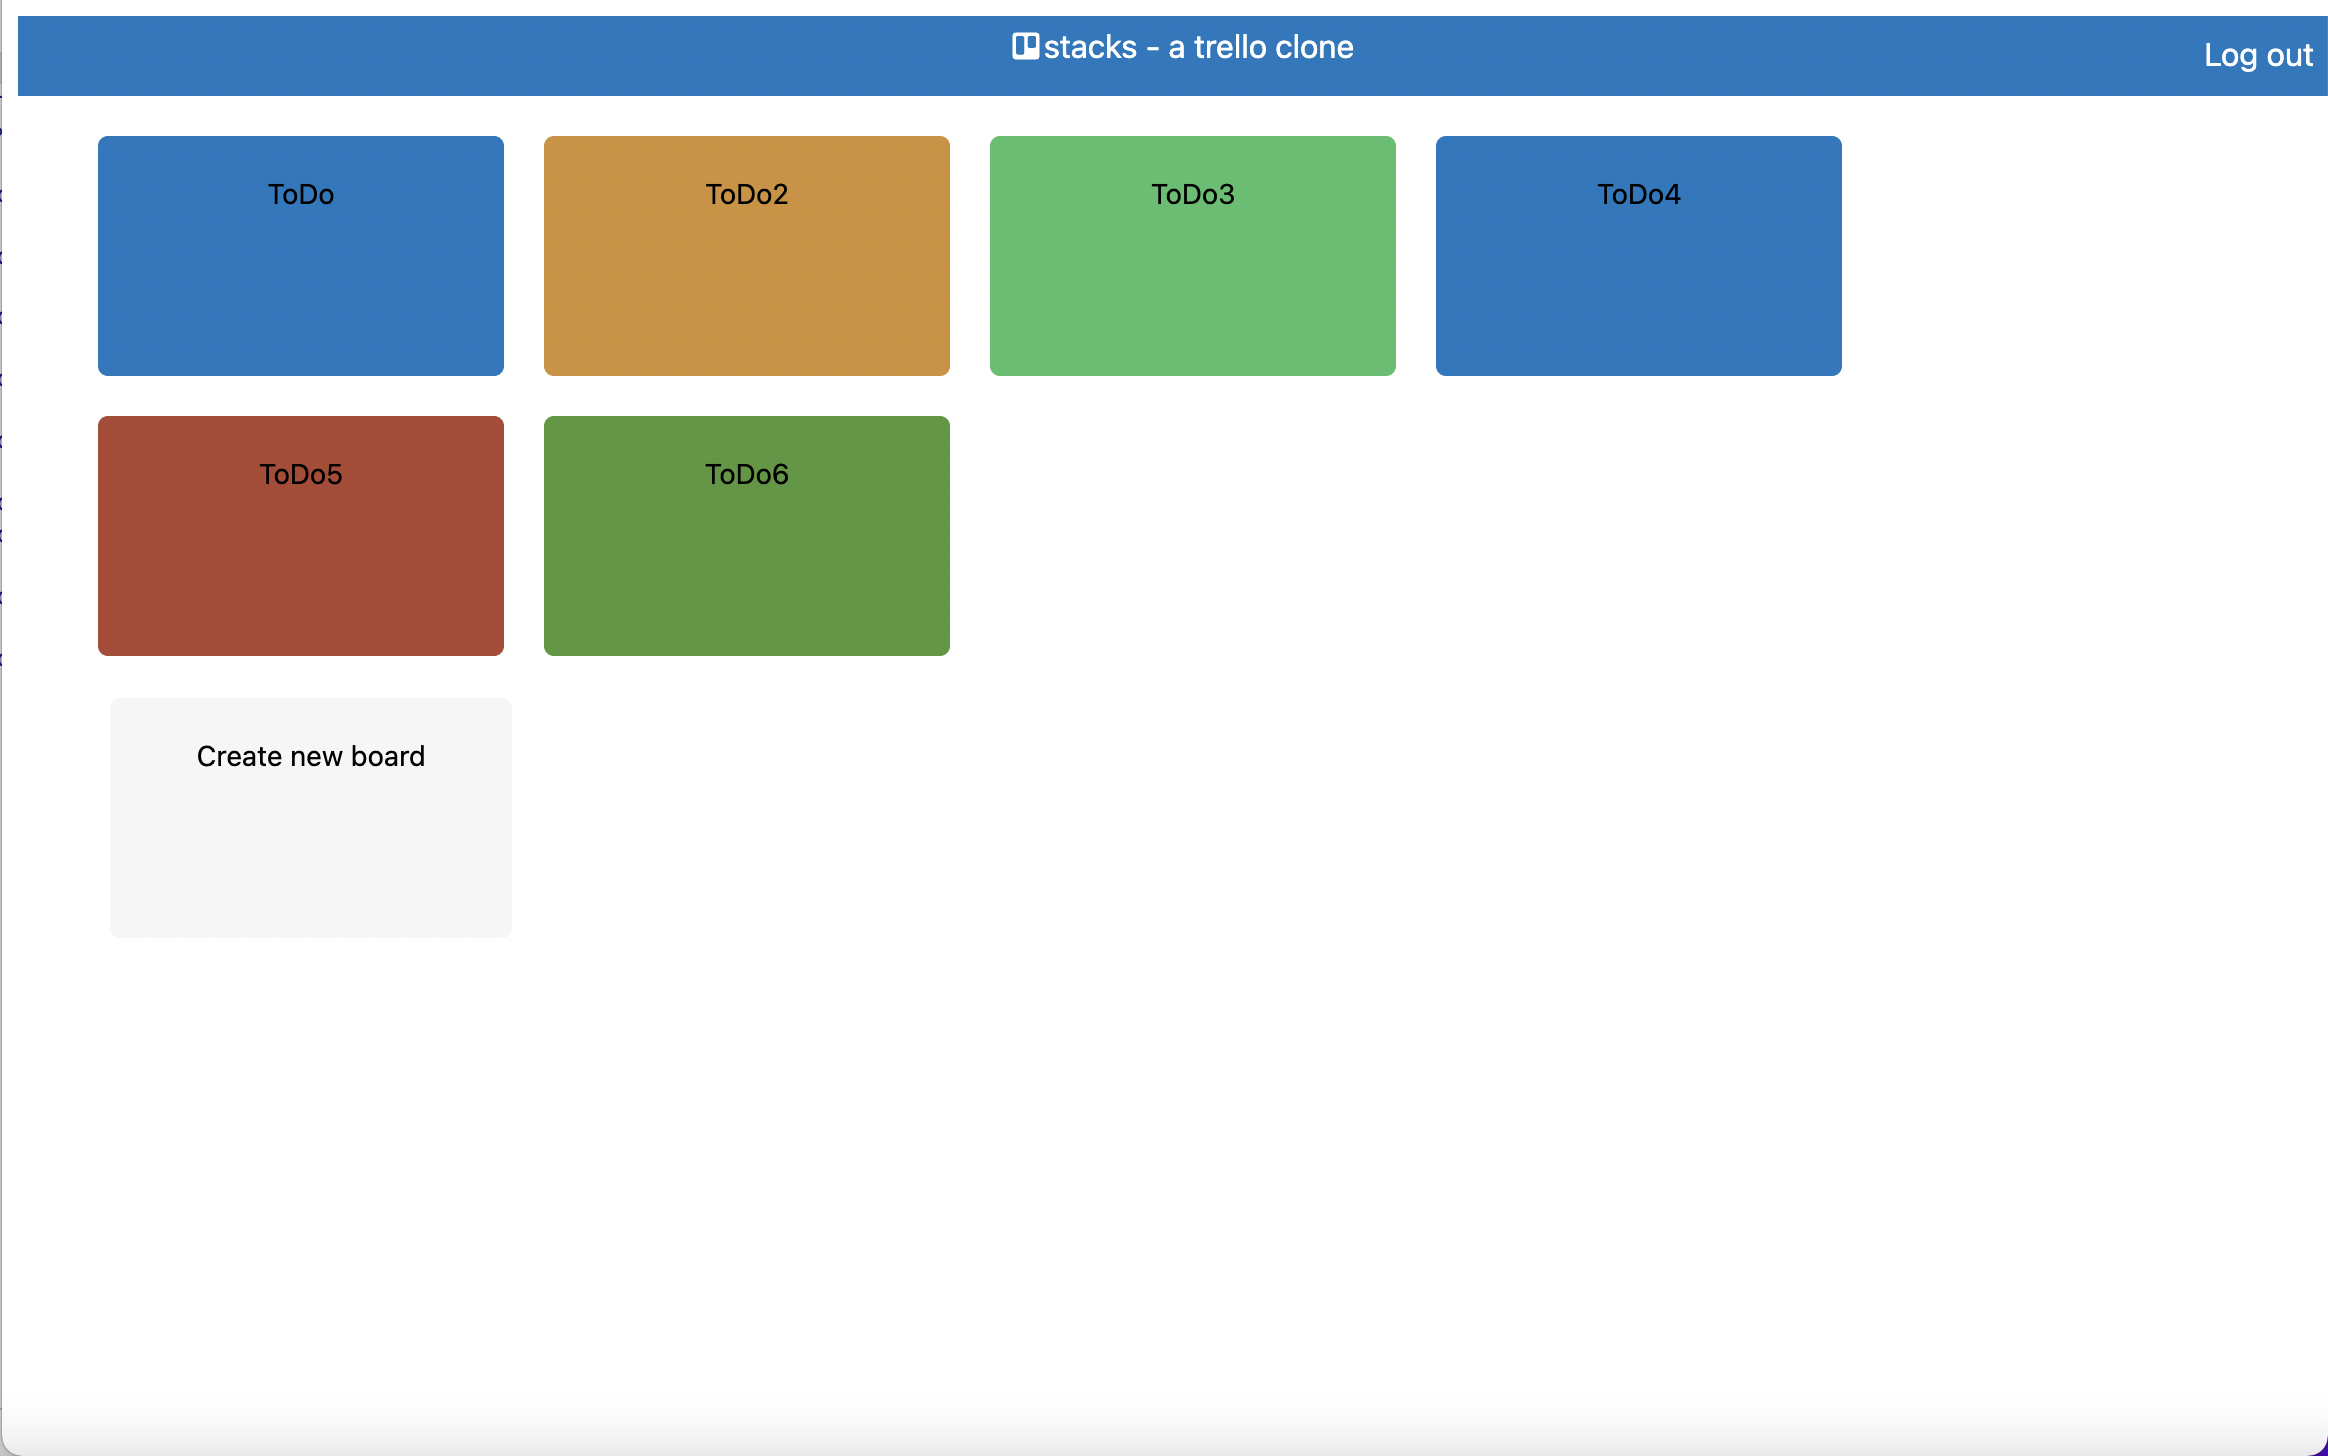
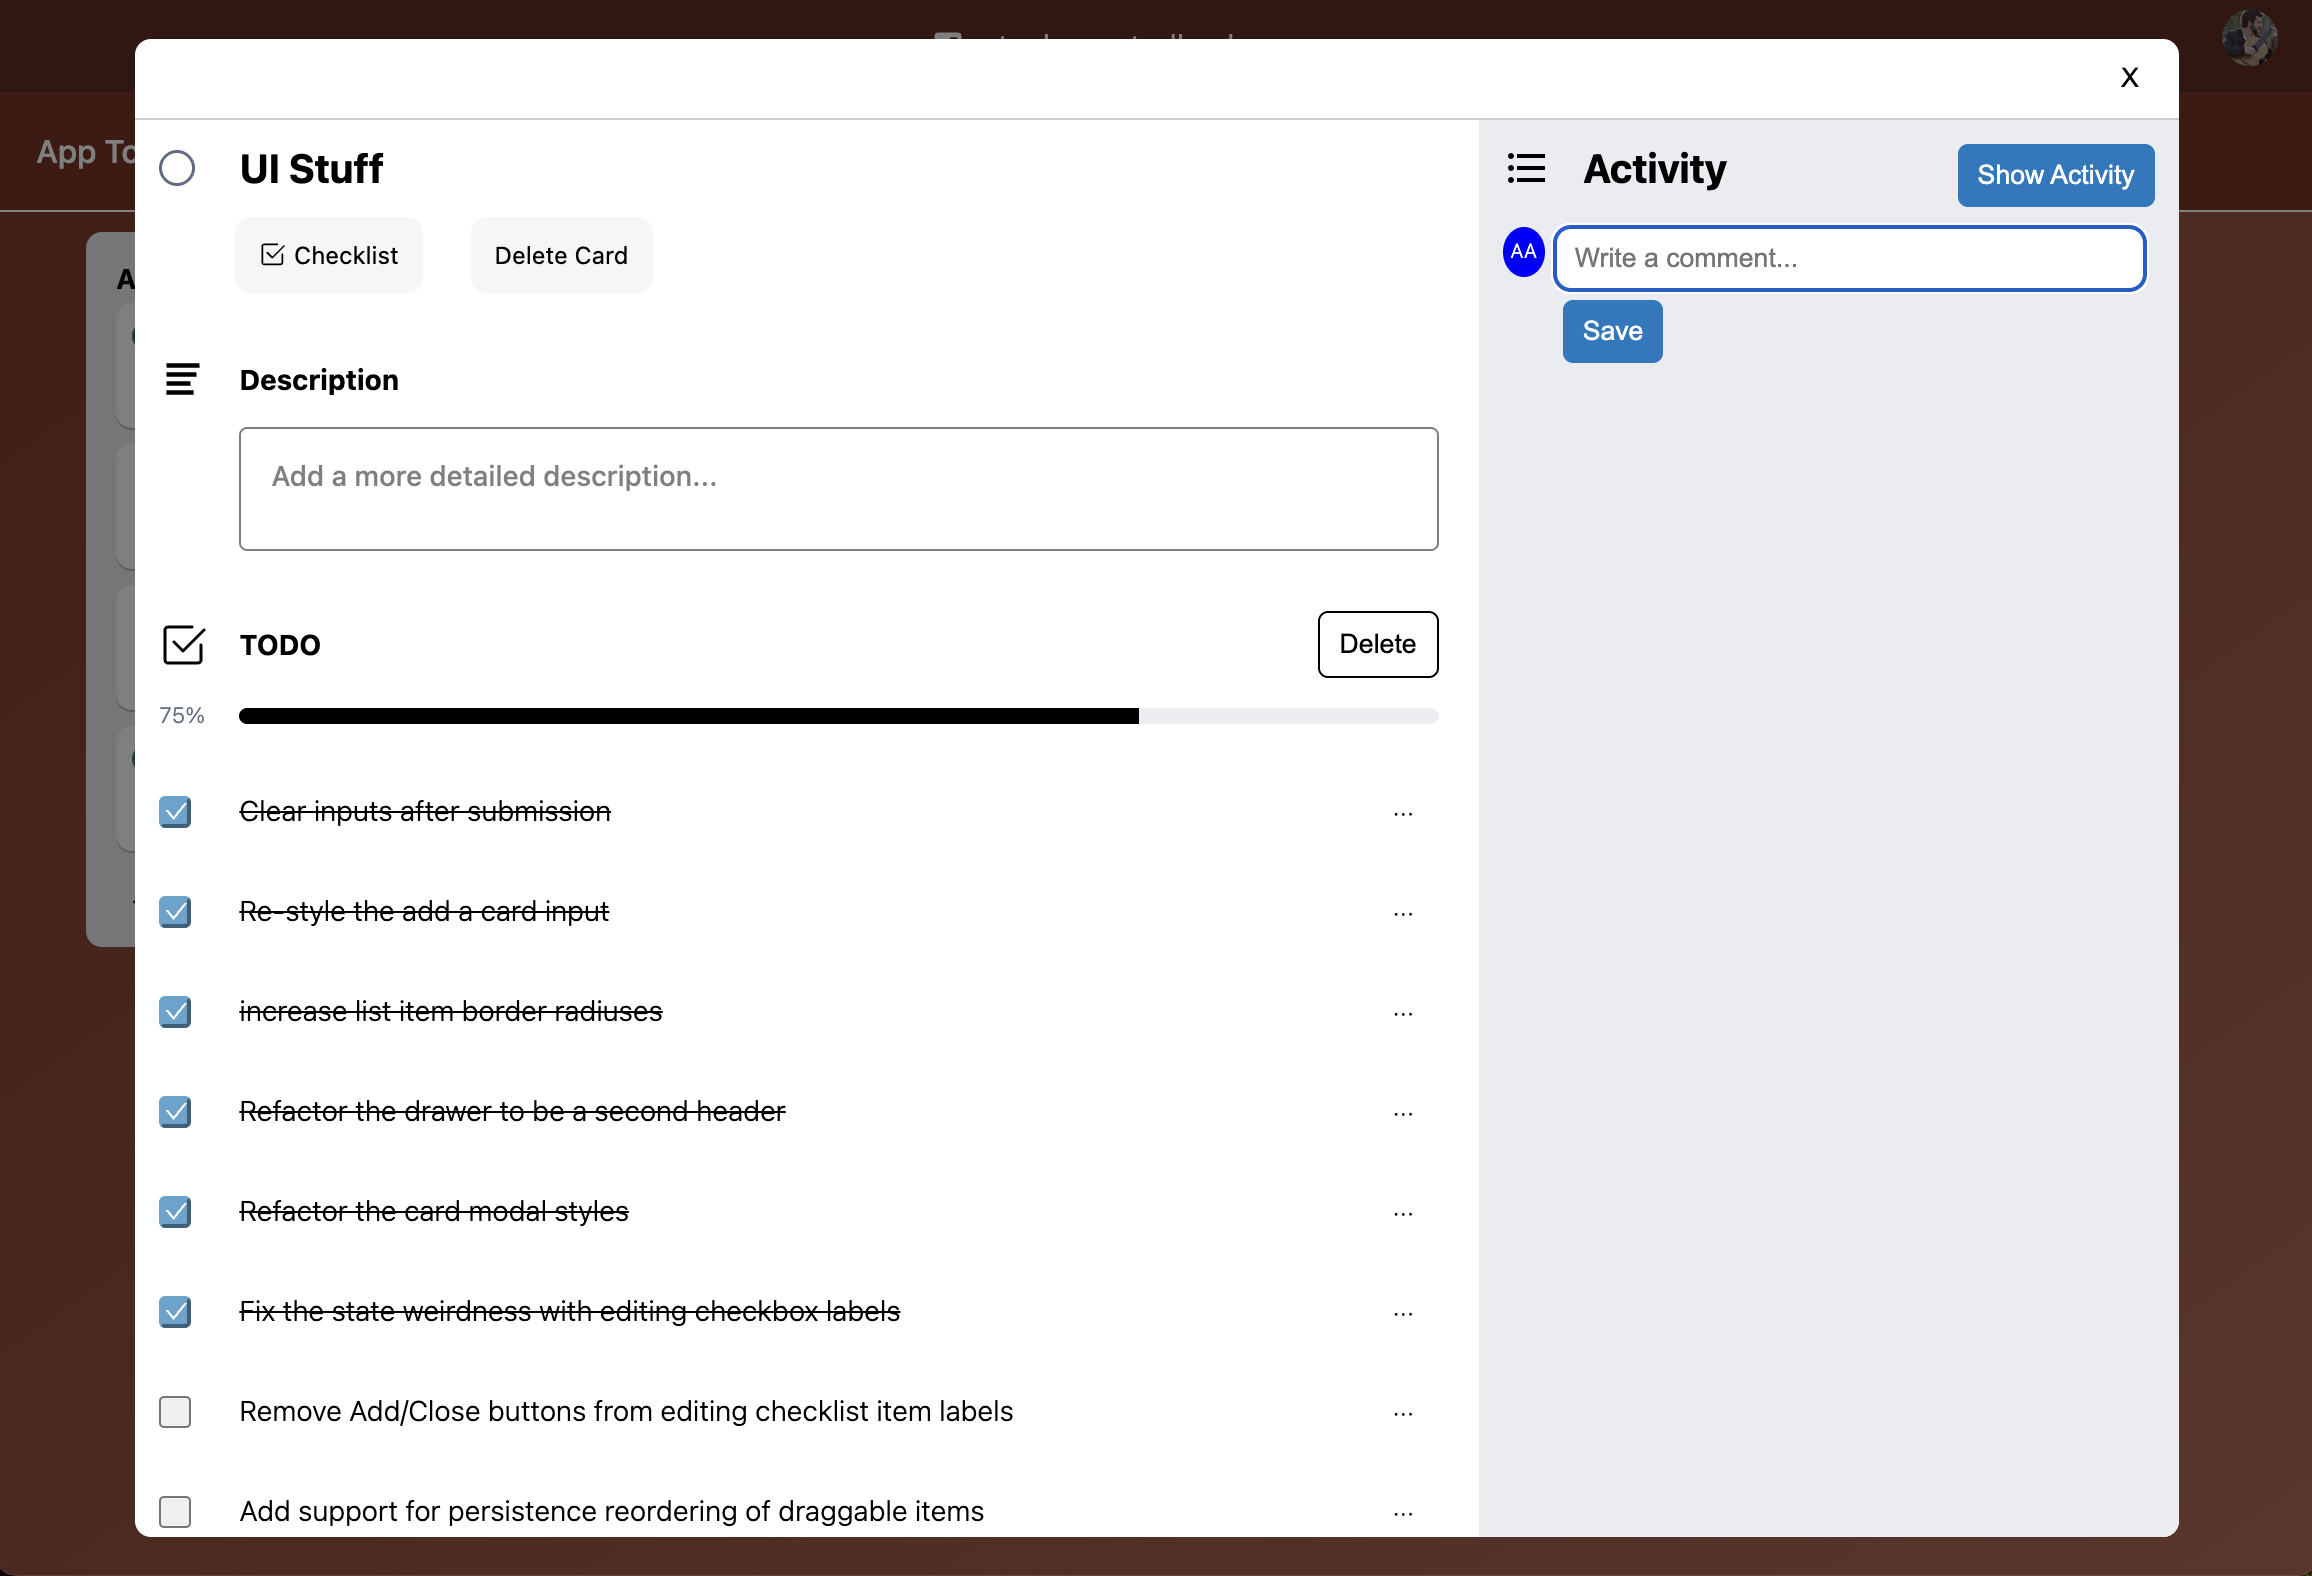
chore:update readme

diff --git a/README.md b/README.md
@@ -7,9 +7,10 @@
 
 <img src="public/screenshot1.png" />
 
+<img src="public/screenshot2.png" />
+
 <img src="public/screenshot3.png" />
 
-<img src="public/screenshot2.png" />
 
 ## Testing
 